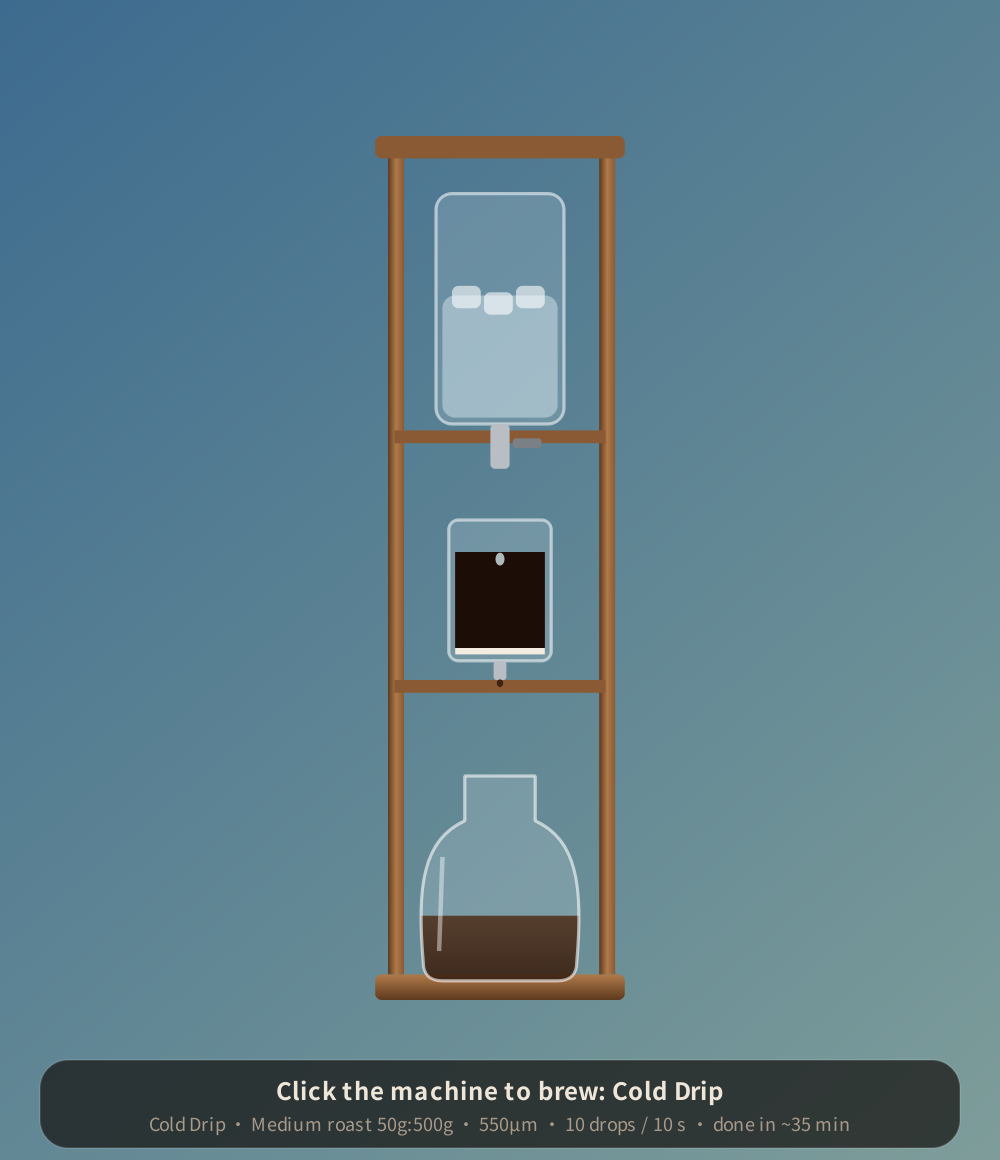
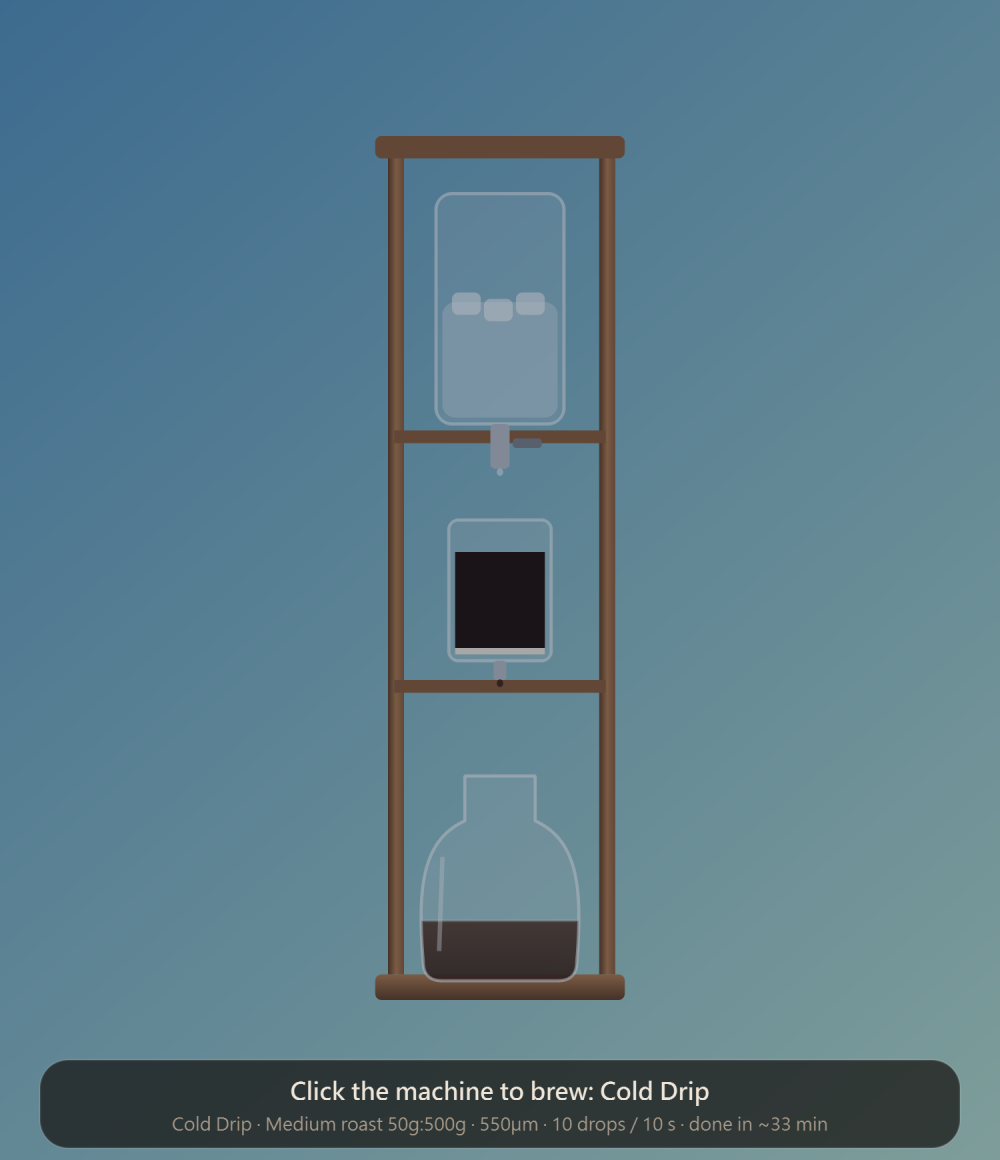
README：摩卡壺與虹吸壺、陪伴功能、下載方式；修正倒咖啡時壺被視窗切掉
- README 中英文：新增摩卡壺與虹吸壺段落與截圖、陪伴功能與簡化物理、下載（Windows）與建置來源驗證、
  網路連線說明；重拍手沖與冰滴截圖；開發段落改成不引用只留在本機的文件
- 手沖、冰滴、摩卡壺、虹吸壺的成品杯往左移，倒咖啡時傾斜的壺不再超出視窗右邊；新增測試

diff --git a/tests/test_vessels.py b/tests/test_vessels.py
@@ -53,3 +53,25 @@ def test_vessel_never_dips_into_the_cup(desk, machine, drink):
                 checked += 1
     assert checked > 0
     run_until_idle(desk)
+
+
+@pytest.mark.parametrize("machine", ["desk01", "lever"])
+@pytest.mark.parametrize("drink", ["pour_over", "moka_pot", "siphon"])
+def test_poured_vessel_stays_inside_the_window(desk, machine, drink):
+    """手沖台的壺倒進杯子時，傾斜的壺不會超出視窗右邊（杯子離右緣要留夠位置）"""
+    from PySide6.QtCore import QPointF
+    from PySide6.QtGui import QTransform
+    desk.set_machine(machine)
+    desk.bag["left"] = 250
+    assert desk.start_session(drink, True)
+    right = 0.0
+    while desk.busy():
+        desk.step(0.05, 0.1)
+        ss = desk.session
+        st = ss.stage if ss else None
+        v = ss.vessel if ss else None
+        if v and getattr(st, "physics", False):
+            m = QTransform().rotate(-v["tilt"])
+            right = max(right, max(v["x"] + m.map(QPointF(px, py)).x() * st.scale
+                                   for px, py in vessels.outline(v["kind"])))
+    assert 0 < right <= desk.machine.scene_w - 2, (drink, right, desk.machine.scene_w)

diff --git a/cafe_desk/brew.py b/cafe_desk/brew.py
@@ -53,7 +53,7 @@ PO_STAND_X = 100              # 濾杯與分享壺的中心
 CD_TOWER_X = 84               # 冰滴塔左緣（塔寬 86）
 MK_STOVE_X = 116              # 摩卡壺爐子（與壺）的中心
 SY_X = 116                    # 虹吸壺（燈、下壺、上壺）的中心
-CUP_RIGHT = {"pourover": 135, "colddrip": 130, "moka": 135, "siphon": 130}  # 成品杯中心到視窗右緣（場景座標）
+CUP_RIGHT = {"pourover": 170, "colddrip": 160, "moka": 165, "siphon": 170}  # 成品杯中心到視窗右緣（場景座標）：右邊要留位置給倒的時候傾斜的壺
 # 沖煮時拉近：磨豆機與杯子淡出，沖煮器具放大到 GEAR_ZOOM 倍、移到視窗中央（FOCUS_X 是器具座標的中心）；
 # 沖完拉遠再倒進杯子。冰滴塔很高，拉近時頂端會伸進上方的透明區
 GEAR_ZOOM = {"pourover": 3.0, "colddrip": 1.6, "moka": 3.0, "siphon": 1.75}

diff --git a/CHANGELOG.md b/CHANGELOG.md
@@ -2,6 +2,11 @@
 
 版本號採 PEP 440（`cafe_desk/__init__.py` 的 `__version__`）。git tag 用 `v1.0.0`、`v1.0.0-beta.8` 這種寫法。
 
+## 未發佈
+
+- 手沖、冰滴、摩卡壺、虹吸壺的畫面：成品杯往左移，倒咖啡時傾斜的分享壺、虹吸下壺不再被視窗右邊切掉。
+- README：補上摩卡壺與虹吸壺、陪伴功能、下載方式與網路連線說明，更新手沖與冰滴的截圖。
+
 ## 1.3.0
 
 ### 新的沖煮方式：摩卡壺與虹吸壺
